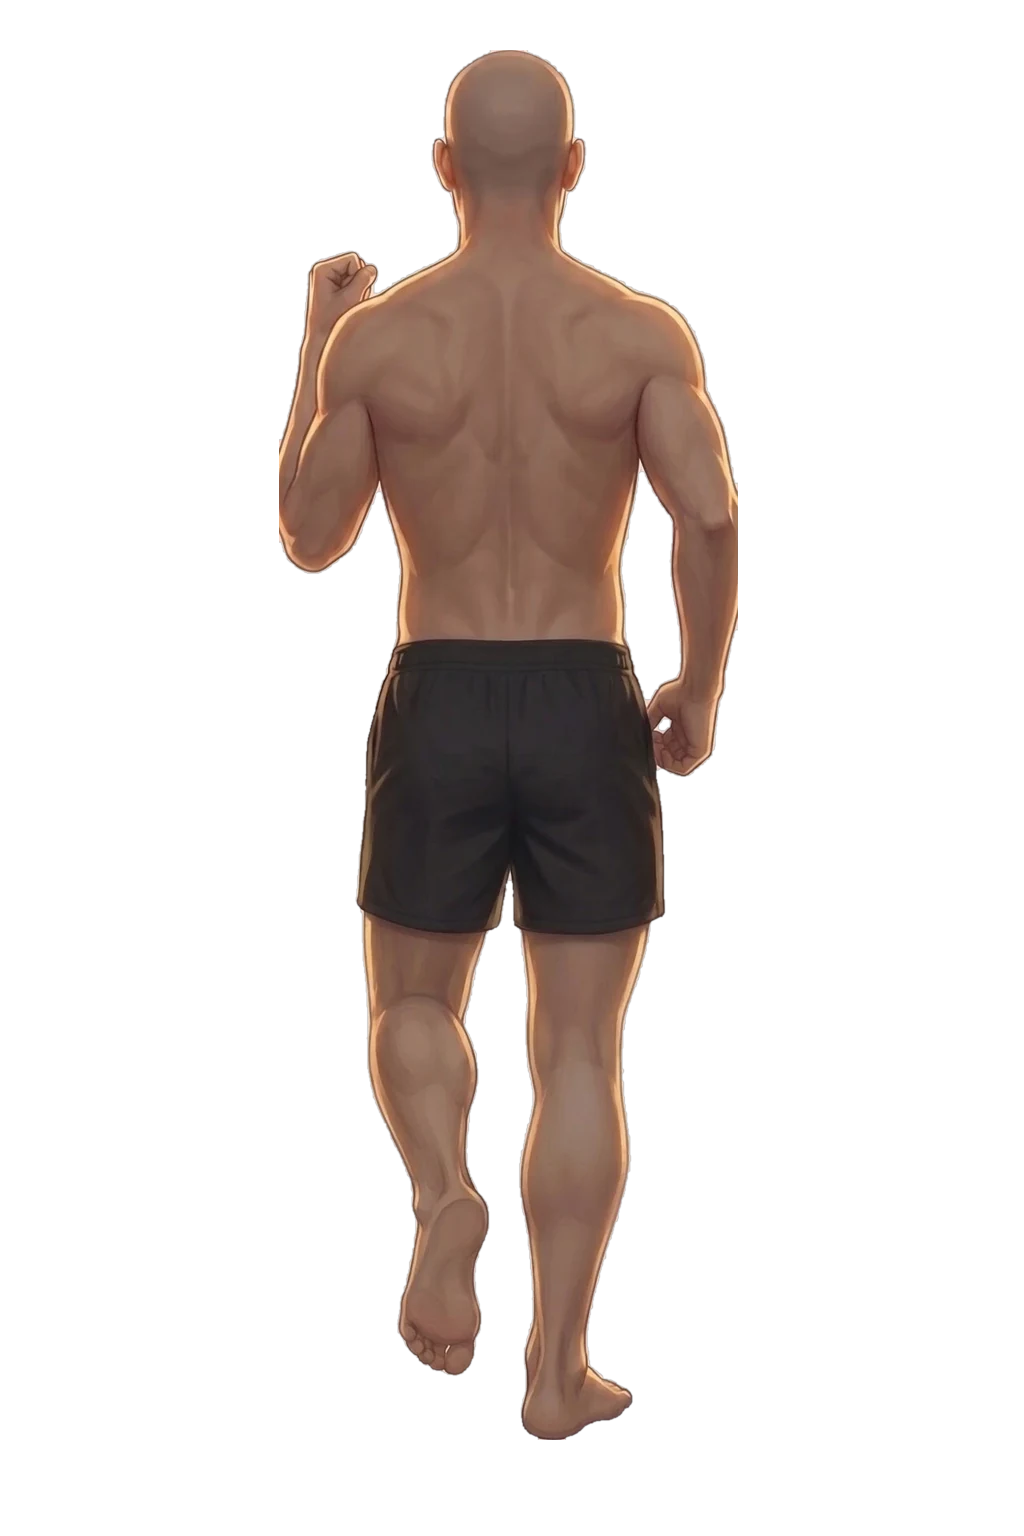
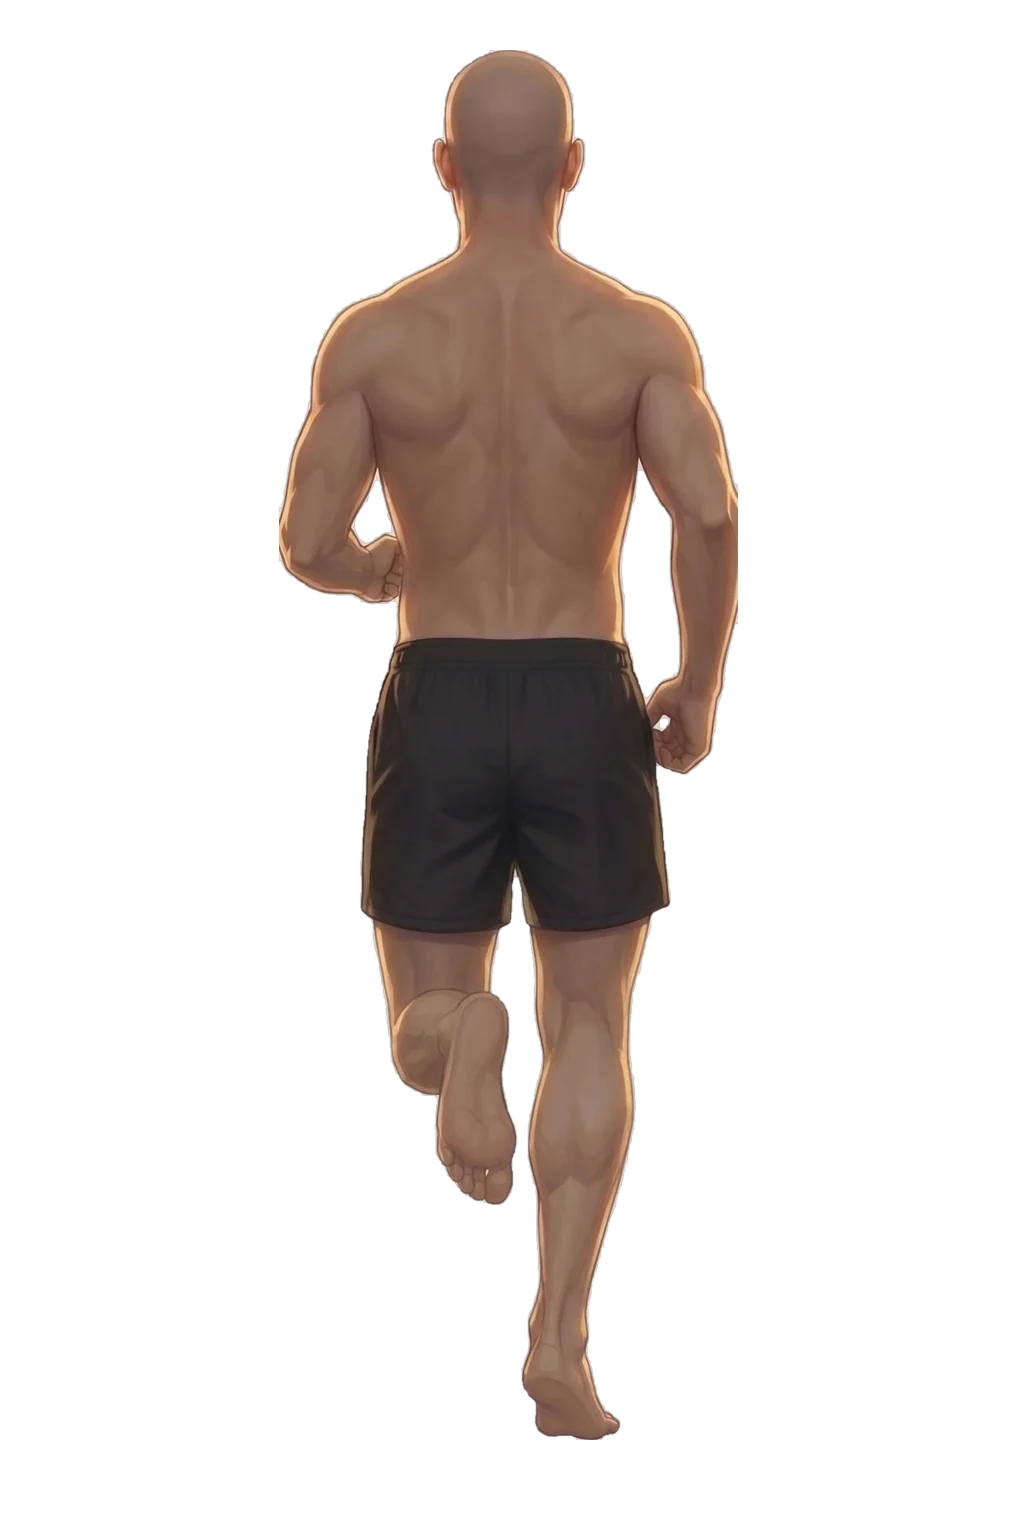
Race back view: the owner's three-frame trail-running stride (#143)
The owner's new body art (men, tone 2): three frames of a compact
trail-running swing with the hands low, mirrored into a six-frame stride.
All three share the same scale and position on the canvas. The bounce is
now lowest when a heel is up under the body (frames 1 and 4).

Claude-Session: https://claude.ai/code/session_013V7FcqZb4pzQ6F4QidmAG4

diff --git a/src/features/race-demo/raceDemo.test.ts b/src/features/race-demo/raceDemo.test.ts
@@ -1,4 +1,5 @@
 import { describe, expect, it } from 'vitest'
+import { artUrl } from './assets'
 import { backLayers, drawnFrames, frameArt, strideFrames } from './backSprites'
 import { depthAlpha, FAR_Z, gapToZ, makeCamera, NEAR_Z, PLAYER_Z, project, RUNNER_HEIGHT } from './projection'
 import { advanceGait, frameIndex, runnerPose, STANDING, strideAt, strideHz } from './runnerRig'
@@ -143,6 +144,15 @@ describe('race back view: runner art', () => {
     expect(backLayers(look, has)).toEqual(['runner/bodies/men_body_01_tone2', 'runner/clothing/lvl1_women_shirt_01', 'runner/heads/lvl1_men_head_01_tone2'])
     expect(backLayers({ ...look, sex: 'women' }, has)?.[0]).toBe('runner/bodies/men_body_01_tone2')
     expect(backLayers(look, () => false)).toBeNull()
+  })
+
+  it('bounces lowest when the heel is up (frame 1) and highest in between', () => {
+    expect(runnerPose(Math.PI / 2, 1).bob).toBeCloseTo(0)
+    expect(runnerPose(Math.PI, 1).bob).toBeGreaterThan(0.04)
+  })
+
+  it('reads the owner\'s three drawn frames as a stride of six', () => {
+    expect(strideFrames(drawnFrames('runner/bodies/men_body_01_tone2', (key) => artUrl(key) !== undefined))).toBe(6)
   })
 
   it('finds the owner\'s first body in the art folder', () => {

diff --git a/src/features/race-demo/runnerRig.ts b/src/features/race-demo/runnerRig.ts
@@ -65,7 +65,8 @@ export function intensityAt(speed: number): number {
 export function runnerPose(phase: number, intensity: number): Pose {
   const s = Math.sin(phase)
   return {
-    bob: 0.045 * intensity * Math.abs(s),
+    // Lowest when a heel is up under the body (the drawn frame 1 and its mirror), highest in between.
+    bob: 0.045 * intensity * Math.abs(Math.cos(phase)),
     sway: 0.018 * intensity * s,
     roll: 0.07 * intensity * s,
     armL: intensity * s,

diff --git a/docs/RACE_BACK_VIEW_DEMO.md b/docs/RACE_BACK_VIEW_DEMO.md
@@ -82,14 +82,15 @@ screens, instead of coded body parts.
   stacked with no offsets. The spine's axis is at x = 512 and the feet stand on y = 1440; the runner
   is 1390 px tall from the top of the head to the ground (1.75 m in the view).
 - **Frames:** the owner draws the first half of a stride, the game mirrors it for the second half:
-  - 2 drawn frames (`_f1`, `_f2`): 1 left fist high, legs apart (the left foot pushing off behind);
-    2 fists at the waist, the left heel up. 4 frames in all.
-  - 3 drawn frames (`_f1` to `_f3`): the same with an in-between frame in the middle, for a smoother
-    stride (owner, 24 November 2026: 4 frames look mechanical). 6 frames in all.
-  - 4 or more drawn frames are the whole stride, with no mirroring.
+  - **3 drawn frames** (owner's art of 24 November 2026, a compact trail-running swing with the
+    hands low): 1 left fist forward at the waist, the left heel up; 2 the left foot coming down and
+    forward; 3 the arms crossing, the left foot landing and the right one pushing off. Then 4 to 6
+    are 1 to 3 mirrored.
+  - 2 drawn frames also work (4 in all); 4 or more drawn frames are the whole stride, not mirrored.
 
   The frames share the stride evenly. The trunk, head and shorts are the same in every frame: only
-  the arms and legs change. The code adds the bounce and the sway by moving the whole picture.
+  the arms and legs change. The code adds the bounce (lowest at frames 1 and 4) and the sway by
+  moving the whole picture.
 - **Layers, back to front:** body → shirt → pack → hair. A layer with `_f1`, `_f2`… has a picture per
   frame, as many as the body; without them one picture serves every frame (a tank top, a
   pack, the hair) and is not mirrored.
@@ -106,8 +107,8 @@ screens, instead of coded body parts.
 While a skin tone has no body, another tone (then the other sex) stands in. A shirt, pack or hair
 with no art is left out. With no body art at all, the coded runner is drawn.
 
-**In the game now:** `runner/bodies/men_body_01_tone2_f1` and `_f2` (owner art of 24 November 2026,
-background removed and placed on the canvas by Claude). The demo's player and rivals all use it, bald
+**In the game now:** `runner/bodies/men_body_01_tone2_f1` to `_f3` (owner art of 24 November 2026,
+background removed and placed on the canvas by Claude, all three with the same scale and position). The demo's player and rivals all use it, bald
 and shirtless, until hair and shirts arrive.
 
 **Appearance ids:** the demo's rivals still carry placeholder ids (`red`, `short-dark`…) with no
